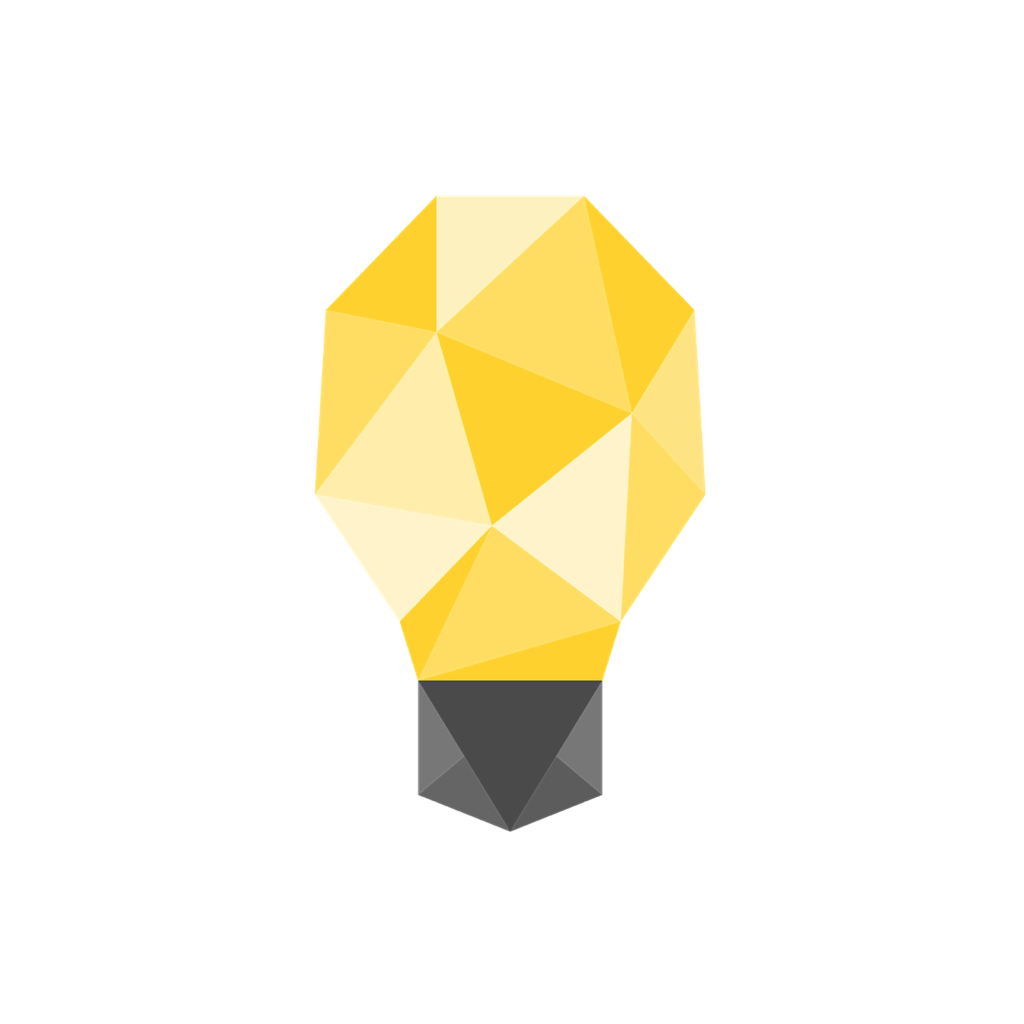
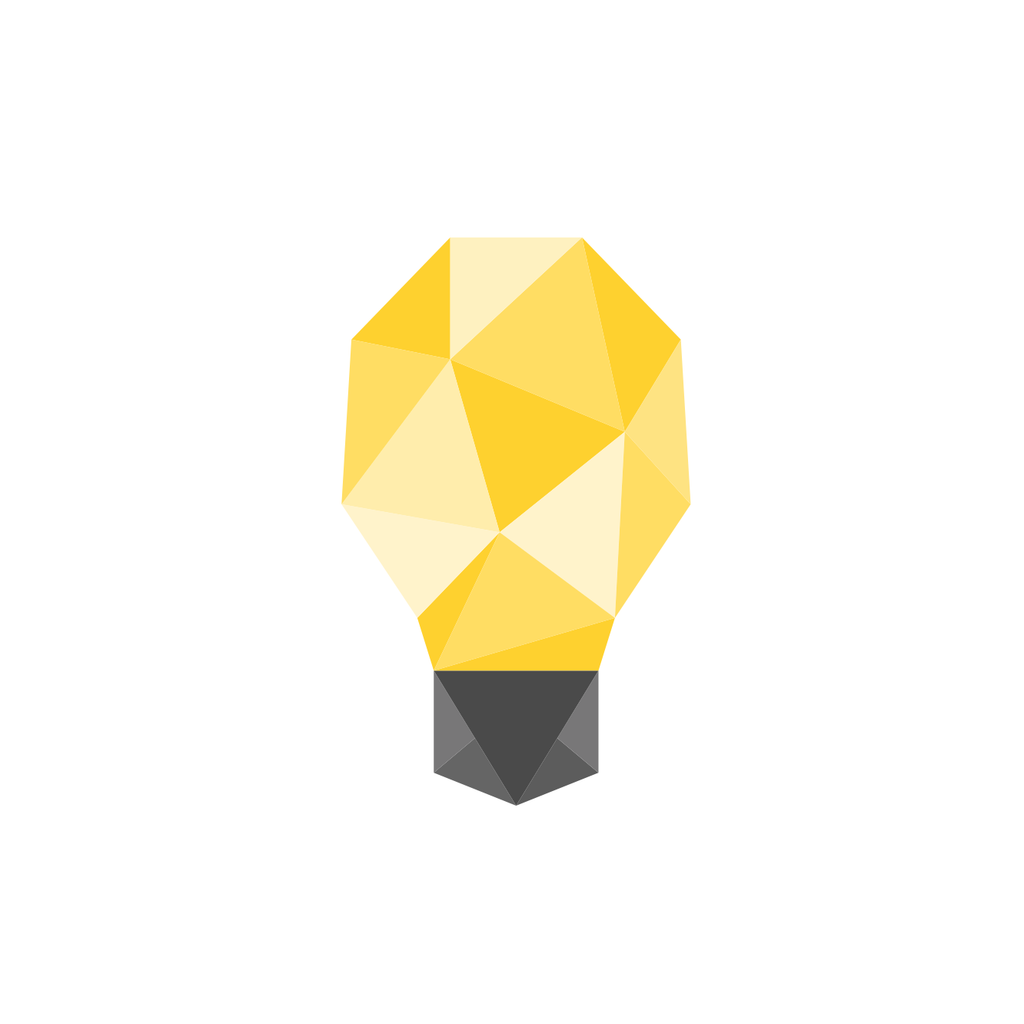
updates

Changed region(s): [[0.2812, 0.1875, 0.6875, 0.8125]]

diff --git a/tasks/adaptive-icon.js b/tasks/adaptive-icon.js
@@ -1,0 +1,50 @@
+const sharp = require('sharp');
+
+async function addPaddingToImage(
+  imagePath = './assets/images/icon.png',
+  outputPath = './assets/images/icon_adaptive.png',
+  paddingRatio = 0.15,
+) {
+  try {
+    // Load the image
+    const image = sharp(imagePath);
+
+    // Get image metadata to access dimensions
+    const metadata = await image.metadata();
+
+    // Calculate padding
+    const padding = Math.round(metadata.width * paddingRatio);
+
+    // Extract the color of the top-left pixel for the background
+    const topLeftPixel = await image
+      .extract({ width: 1, height: 1, left: 0, top: 0 })
+      .raw()
+      .toBuffer();
+
+    // Convert the pixel data to rgba format for the background color
+    const backgroundColor = `rgb(${topLeftPixel[0]}, ${topLeftPixel[1]}, ${topLeftPixel[2]})`;
+
+    // Resize the image with padding
+    const imageBuff = await sharp(imagePath)
+      .extend({
+        top: padding,
+        bottom: padding,
+        left: padding,
+        right: padding,
+        background: backgroundColor,
+      })
+      .toBuffer();
+
+    // can't extend and resize in one step
+    sharp(imageBuff).resize(1024, null).toFile(outputPath); // Save the output to a new file
+  } catch (error) {
+    console.error('Error processing image:', error);
+  }
+}
+
+// Get the image path from the command line arguments
+const inputImagePath = process.argv[2]; // The first real argument (after "node" and the script name)
+const outputImagePath = process.argv[3]; // The second real argument (after "node" and the script name)
+
+// Call the function with the provided image path
+addPaddingToImage(inputImagePath, outputImagePath).catch(console.error);
